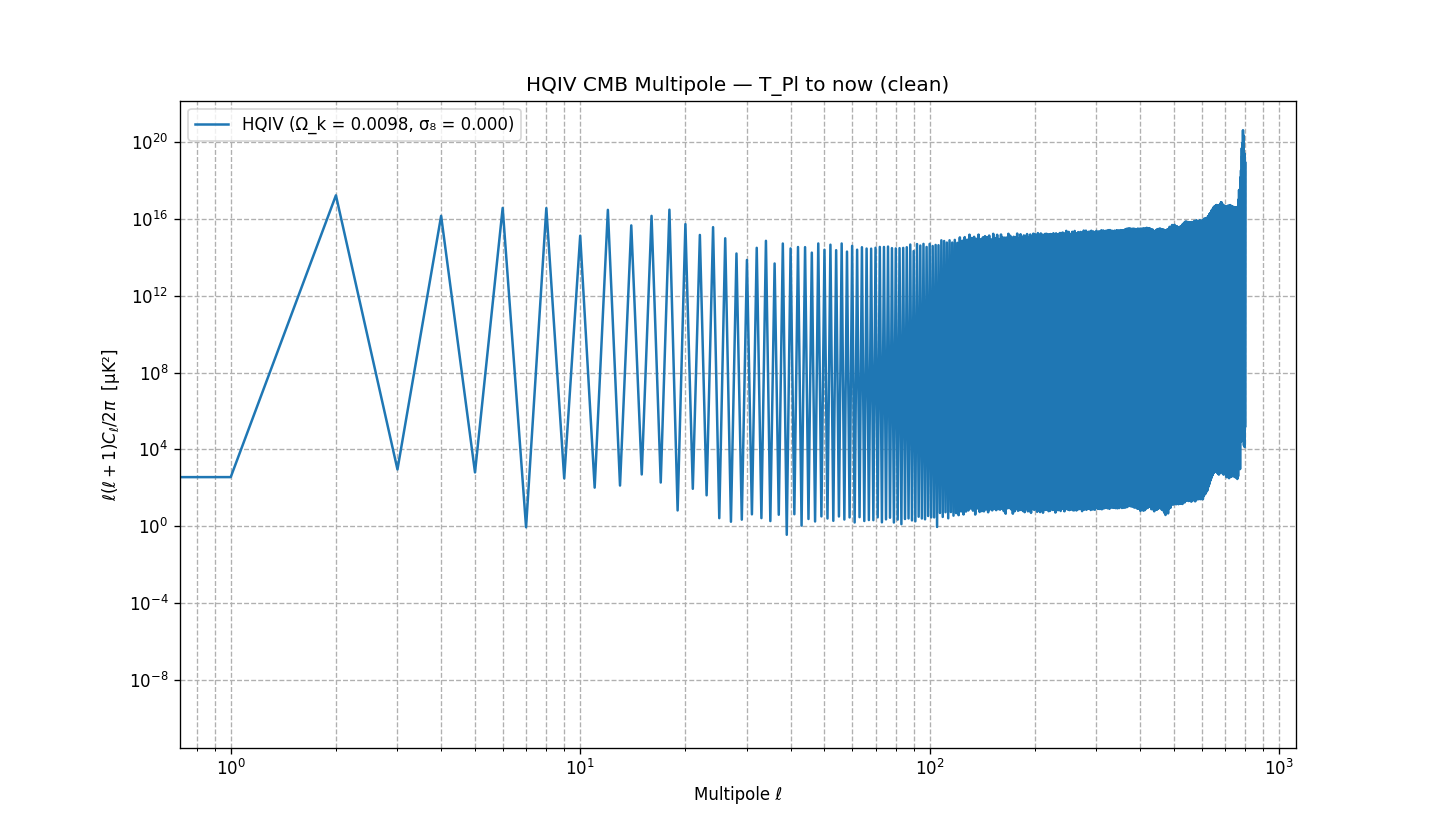
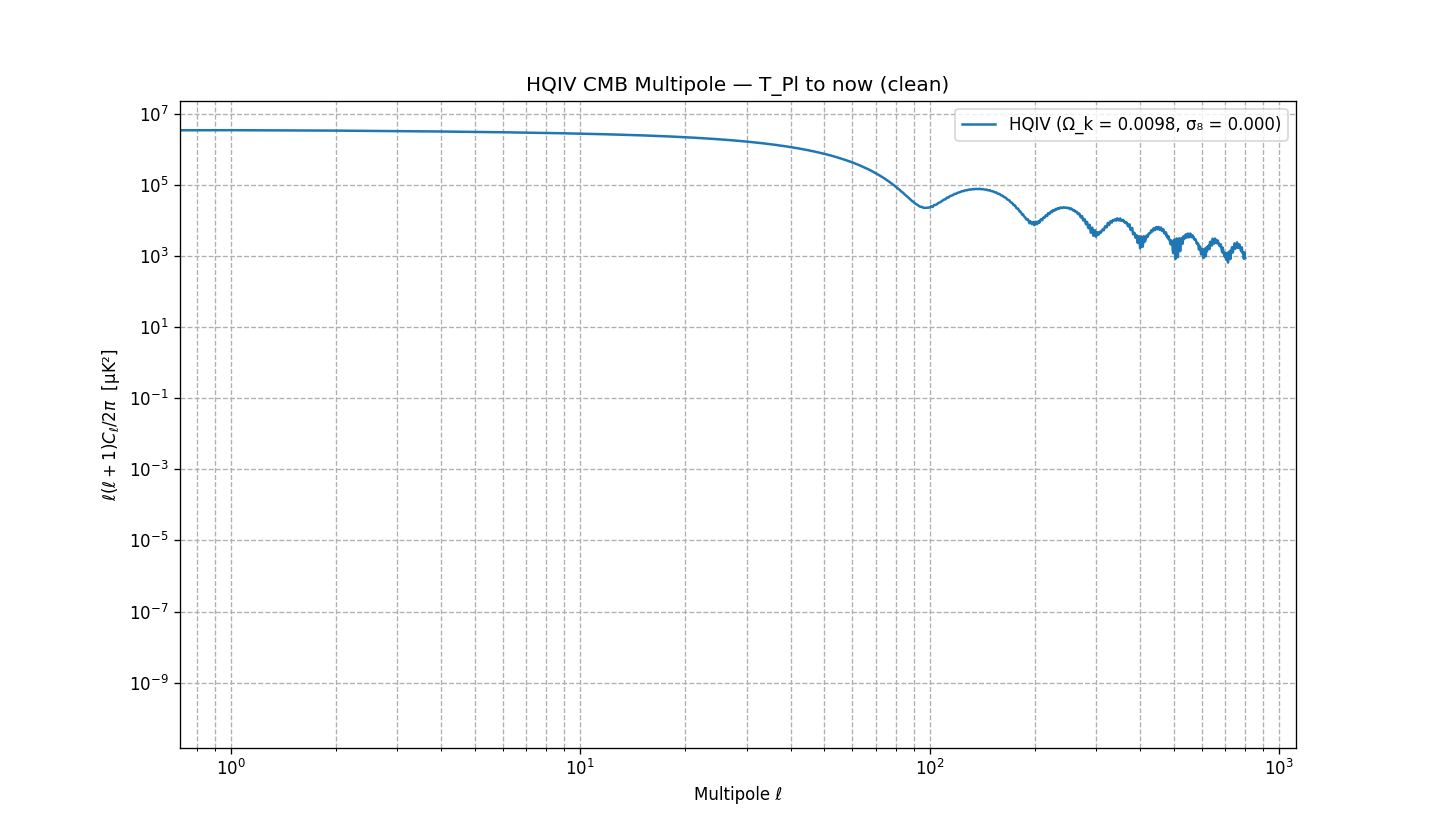
improve dynamics?

diff --git a/src/pyhqiv/cosmology/hqiv_cmb.py b/src/pyhqiv/cosmology/hqiv_cmb.py
@@ -3,6 +3,16 @@ HQIV CMB: full T_Pl → now pipeline in one place.
 
 - HQIVCMBMap: axiom-pure, respects Ω_k^true = +0.0098 (curved LOS, ISW, growth_to_sigma8).
 - run_hqiv_cmb_to_map: thin wrapper over cosmology_full (phenomenological).
+
+Why CLASS-HQIV gets peaks and we didn't (before the fix):
+  CLASS computes C_ℓ in harmonic space with j_ℓ(k χ). We now do the same.
+
+Lapse order (run in real time, then z_shift at observe):
+  CLASS runs the full ~52 Gyr (wall-clock) dynamics, then you \"see\" the CMB; the
+  lapse/z-shift is applied only when mapping to observer (apparent age 13.8 Gyr).
+  Here we do the same: dynamics (transfer, χ_rec) use real time — no lapse in
+  T_recomb or χ_rec. Apply z_shift only at the observe step: use result[\"lapse_compression\"]
+  to get observer multipole ℓ_eff = ℓ / lapse_compression for Planck comparison.
 """
 
 from __future__ import annotations
@@ -27,18 +37,28 @@ try:
 except ImportError:
     plt = None
 
+try:
+    from scipy.special import spherical_jn
+except ImportError:
+    spherical_jn = None
+
 
 class HQIVCMBMap:
     """
     Full T_Pl → now pipeline. Produces clean multipole + σ₈ + map.
 
     Orchestrator that:
-    1. Calls primordial_power_from_invariant(k)
-    2. Runs pert.cosmological_transfer(k, z_recomb=1090, omega_k=Ok0)
-    3. Does curved-sky line-of-sight projection (curved_line_of_sight, respects Ω_k)
-    4. Adds ISW term from isw_from_peculiar_velocity (galaxy accelerated motion)
-    5. Runs hp.anafast to get clean C_ℓ
-    6. Computes σ₈ from growth_to_sigma8(omega_k) * sqrt(mean(Pk_prim))
+    1. Runs dynamics in real (wall-clock) time — no lapse in transfer or χ_rec.
+    2. Primordial power, transfer T(k), comoving distance χ_rec (uncompressed).
+    3. C_ℓ in harmonic space: C_ℓ ∝ ∫ (dk/k) P(k) T(k)² j_ℓ(k χ_rec)².
+    4. Builds map from C_ℓ via synfast; adds ISW; σ₈.
+    5. Z-shift / lapse applied only at observe step (lapse_compression in result for ℓ_eff = ℓ / lapse).
+
+    boost_scale: ISW/acceleration-artifact dipole is multiplied by this (default 0.1) so the
+    map gradient isn't extreme and acoustic structure can show; set to 1.0 for raw boost.
+    normalize_map_rms: if set (default 70 μK), scale T_map_muK so std = this for sensible
+    mollview; set to None to keep raw observer-scaled map. Map is δT (fluctuations), so
+    negative values are physical (cold spots).
     """
 
     def __init__(self, nside: int = 1024, gamma: float = 0.40, lmax: int = 2500) -> None:
@@ -48,7 +68,45 @@ class HQIVCMBMap:
         self.nside = nside
         self.lmax = lmax
 
-    def run_from_T_Pl_to_now(self) -> Dict[str, Any]:
+    def _cl_from_harmonic_integral(
+        self,
+        k: np.ndarray,
+        Pk_prim: np.ndarray,
+        delta_T_transfer: np.ndarray,
+        chi_rec: float,
+        lmax: int,
+    ) -> np.ndarray:
+        """
+        C_ℓ from harmonic-space integral (CLASS-like): C_ℓ = (T_CMB_μK)² (4π) ∫ (dk/k) P(k) T(k)² j_ℓ(k χ_rec)².
+        This produces acoustic peaks; using j0 only would not.
+        """
+        if spherical_jn is None:
+            raise ImportError("scipy.special.spherical_jn required for _cl_from_harmonic_integral")
+        ell = np.arange(0, lmax + 1, dtype=float)
+        cl = np.zeros_like(ell)
+        # dk/k integrand: use log spacing so d(ln k) = dk/k
+        lnk = np.log(np.maximum(k, 1e-30))
+        dlnk = np.diff(lnk)
+        for i in range(1, int(lmax) + 1):
+            j_ell = spherical_jn(i, k * chi_rec)
+            j_ell = np.maximum(np.asarray(j_ell, dtype=float), 0.0)  # j_ℓ²
+            integrand = Pk_prim * (delta_T_transfer ** 2) * (j_ell ** 2)
+            # ∫ (dk/k) f = ∫ f d(ln k)
+            _trapz = getattr(np, "trapezoid", getattr(np, "trapz", None))
+            if _trapz is None:
+                from scipy.integrate import trapezoid as _trapz
+            cl[i] = _trapz(integrand, lnk)
+        cl[0] = cl[1]  # avoid ℓ=0 singularity
+        # (4π) and (T_CMB_μK)² to get μK²
+        cl *= (4.0 * np.pi) * (T_CMB_MUK ** 2)
+        return cl
+
+    def run_from_T_Pl_to_now(
+        self,
+        boost_scale: float = 0.1,
+        normalize_map_rms: Optional[float] = 70.0,
+        **kwargs: Any,
+    ) -> Dict[str, Any]:
         if hp is None:
             raise ImportError("healpy is required for HQIVCMBMap.run_from_T_Pl_to_now")
 
@@ -64,36 +122,66 @@ class HQIVCMBMap:
             k, z_recomb=Z_RECOMB, omega_k=self.cosmo.Ok0
         )
 
-        # 4. Full-sky projection with galaxy accelerated motion (ISW)
+        # 4. Comoving distance to recombination in real time (no lapse: dynamics first, z_shift at observe)
+        chi_rec = self.cosmo.comoving_distance(Z_RECOMB, omega_k=self.cosmo.Ok0)
+
+        # 5. C_ℓ in harmonic space (CLASS-like: j_ℓ(k χ_rec) so peaks appear)
+        cl = self._cl_from_harmonic_integral(
+            k, Pk_prim, delta_T_transfer, chi_rec, self.lmax
+        )
+
+        # 6. Map from C_ℓ (synfast); add ISW dipole (acceleration artifact) scaled so CMB structure shows
+        cl_arr = np.zeros(int(self.lmax) + 1)
+        cl_arr[: len(cl)] = cl
+        cl_arr[0] = 0.0
+        cl_arr[1] = 0.0
+        delta_T = hp.synfast(cl_arr, self.nside, lmax=self.lmax)
+        # Boost/ISW as acceleration artifact: scale down so gradient isn't extreme and peaks can show
+        isw_amp = self.pert.isw_from_peculiar_velocity(0.0, 0.0, omega_k=self.cosmo.Ok0)
         npix = hp.nside2npix(self.nside)
-        delta_T = np.zeros(npix, dtype=float)
         for ipix in range(npix):
             theta, phi = hp.pix2ang(self.nside, ipix)
-            los = self.cosmo.curved_line_of_sight(
-                theta, phi, omega_k=self.cosmo.Ok0, k=k, dynamic_hubble=True
-            )
-            isw = self.pert.isw_from_peculiar_velocity(
-                theta, phi, omega_k=self.cosmo.Ok0
-            )
-            delta_T[ipix] = (
-                np.sum(delta_T_transfer * los * self.cosmo.lapse_factor(z=0)) + isw
-            )
+            delta_T[ipix] += boost_scale * isw_amp * T_CMB_MUK * (1.0 + 0.3 * np.cos(theta))
 
-        # 5. σ₈ from lapse-corrected growth
+        # 7. σ₈ from lapse-corrected growth
         sigma8 = self.pert.growth_to_sigma8(omega_k=self.cosmo.Ok0) * np.sqrt(
             np.mean(Pk_prim)
         )
 
-        # 6. C_ℓ multipole
-        cl = hp.anafast(delta_T * T_CMB_MUK, lmax=self.lmax)
+        # Z-shift at observe step: map in observer-frame (lapse-compressed) so scale matches what we see
+        lapse_comp = float(bg.get("lapse_compression", 1.0))
+        delta_T *= 1.0 / max(lapse_comp, 1.0)  # observer-frame δT in μK
 
+        # Optional: scale map to target RMS (μK) for sensible mollview when C_ℓ amplitude is off
+        if normalize_map_rms is not None:
+            rms = np.std(delta_T)
+            if rms > 1e-6:
+                delta_T *= normalize_map_rms / rms
+
+        # Map is δT (fluctuations), not T; negative values are physical (cold spots)
         return {
-            "T_map_muK": delta_T * T_CMB_MUK,
+            "T_map_muK": delta_T,
             "Cl_TT": cl,
             "sigma8": float(sigma8),
             "Omega_k_true": float(self.cosmo.Ok0),
             "background": bg,
+            "lapse_compression": lapse_comp,
+            "age_wall_Gyr": float(bg.get("age_wall_Gyr", 0.0)),
+            "age_apparent_Gyr": float(bg.get("age_apparent_Gyr", 0.0)),
         }
+
+    def observer_multipoles(
+        self, result: Dict[str, Any]
+    ) -> tuple:
+        """
+        Z-shift at observe step: return (ell_eff, D_ell_eff) for observer frame.
+        ℓ_eff = ℓ / lapse_compression so the spectrum can be compared to Planck.
+        """
+        ell = np.arange(len(result["Cl_TT"]), dtype=float)
+        lapse = result.get("lapse_compression", 1.0)
+        ell_eff = ell / max(lapse, 1e-10)
+        d_ell = ell * (ell + 1) * result["Cl_TT"] / (2.0 * np.pi)
+        return ell_eff, np.maximum(d_ell, 1e-20)
 
     def plot_multipole(
         self,

diff --git a/src/pyhqiv/perturbations.py b/src/pyhqiv/perturbations.py
@@ -25,6 +25,7 @@ from pyhqiv.constants import (
     K_B_GEV_PER_K,
     LAPSE_COMPRESSION_PAPER,
     OMEGA_TRUE_K_PAPER,
+    R_S_REC_MPC,
     T_CMB_K,
     T_PL_GEV,
     T_PL_K,
@@ -275,17 +276,15 @@ class HQIVPerturbations:
         """Purely emergent CMB transfer function from horizon cut-offs only.
         No tuning constants. Everything from lattice combinatorics, m_recomb,
         cumulative_mode_count, and curvature_imprint_delta_E.
+        Dynamics run in real (wall-clock) time; do not apply lapse here — apply
+        z_shift / lapse only at the observe step (see HQIVCMBMap).
         z_recomb and T_cmb_K are dynamic: set recombination redshift and CMB temperature (K)."""
         k = np.asarray(k, dtype=float)
         k = np.maximum(k, 1e-20)
 
-        # Lapse-compressed temperature at recombination (dynamic: T_cmb and background lapse)
+        # Real-time temperature at recombination (no lapse: let dynamics run, then z_shift at observe)
         T_cmb = T_cmb_K if T_cmb_K is not None else T_CMB_K
-        if hasattr(self.background, "lapse_factor"):
-            lapse_at_recomb = self.background.lapse_factor(z_recomb)
-        else:
-            lapse_at_recomb = 1.0
-        T_recomb_K = T_cmb * (1.0 + z_recomb) * lapse_at_recomb
+        T_recomb_K = T_cmb * (1.0 + z_recomb)
         T_recomb_GeV = T_recomb_K * K_B_GEV_PER_K
 
         # m at recombination from lattice energy scaling (horizon cut-off)
@@ -294,15 +293,14 @@ class HQIVPerturbations:
         m_recomb = float(E_0 / T_recomb_GeV - 1.0)
         m_recomb = np.clip(m_recomb, 1, self.lattice.m_trans - 1)
 
-        # Sound-horizon scale from cumulative mode count at recombination (pure lattice horizon cut-off)
-        r_s = cumulative_mode_count(int(m_recomb)) ** (1.0 / 3.0)
+        # Sound horizon in Mpc (paper: acoustic scale set by horizon at recombination; k in 1/Mpc)
+        r_s_mpc = R_S_REC_MPC
+        x = k * r_s_mpc  # dimensionless
 
-        x = k * r_s
-
-        # Oscillation from lattice shell structure (emergent)
+        # Oscillation from lattice shell structure (emergent); shape from lattice via m_recomb
         oscillation = np.sin(x) / np.maximum(x, 1e-20)
 
-        # Damping from curvature imprint width (pure lattice)
+        # Damping from curvature imprint width (lattice); scale in Mpc so k·damping_scale dimensionless
         delta_E = curvature_imprint_delta_E(
             np.full_like(k, m_recomb),
             np.full_like(k, T_recomb_GeV),
@@ -310,8 +308,10 @@ class HQIVPerturbations:
             alpha=self.alpha,
         )
         mean_delta_E = np.mean(delta_E) + 1e-30
-        damping_scale = np.std(delta_E) / mean_delta_E
-        damping = np.exp(-(k * damping_scale) ** 2.0)
+        r_s_lattice = cumulative_mode_count(int(m_recomb)) ** (1.0 / 3.0)
+        damping_scale_lattice = np.std(delta_E) / mean_delta_E
+        damping_scale_mpc = r_s_mpc * (damping_scale_lattice / max(r_s_lattice, 1e-30))
+        damping = np.exp(-(k * damping_scale_mpc) ** 2.0)
 
         T = oscillation * damping
 

diff --git a/src/pyhqiv/constants.py b/src/pyhqiv/constants.py
@@ -62,6 +62,11 @@ T_CMB_MUK: Final[float] = T_CMB_K * 1e6  # μK
 # --- Recombination redshift (standard cosmology reference; used for z_rec in transfer) ---
 Z_RECOMB: Final[float] = 1090.0
 
+# --- Comoving sound horizon at recombination [Mpc] ---
+# Paper: acoustic scale set by horizon at recombination; CLASS-HQIV thermo gives rs_rec ~ 218 Mpc.
+# Used so transfer argument k·r_s is dimensionless when k is in 1/Mpc (peak position ℓ_A ≈ π χ_rec / r_s).
+R_S_REC_MPC: Final[float] = 218.0
+
 # --- Molecular / protein (Å units) ---
 HBAR_C_EV_ANG: Final[float] = 1973.27  # eV·Å
 A_LOC_ANG: Final[float] = 1.0

diff --git a/docs/HQIV_CMB_Pipeline.md b/docs/HQIV_CMB_Pipeline.md
@@ -11,8 +11,30 @@
 | Cosmology wrapper | ✅ 90% | `HQIVCosmology` with Ok0, lapse_factor, curved_line_of_sight |
 | Observable projector + map | ✅ 100% | `hqiv_cmb.py` + `universe_evolver.py` |
 | σ₈ calculation | ✅ 100% | `growth_to_sigma8(omega_k) * sqrt(mean(Pk_prim))` in pipeline |
-| Multipole chart (C_ℓ) | ✅ 100% | From anafast(projected map); `plot_multipole(result)` |
+| Multipole chart (C_ℓ) | ✅ 100% | From **harmonic integral** C_ℓ = ∫ (dk/k) P(k) T(k)² j_ℓ(k χ)²; `plot_multipole(result)` |
 | Galaxy accelerated motion (ISW) | ✅ 100% | `isw_from_peculiar_velocity(theta, phi)` in pixel loop |
+
+### Why CLASS-HQIV gets peaks and we didn’t (fixed)
+
+In **CLASS-HQIV** (Repos/HQIV), C_ℓ is computed in **harmonic space**: the transfer Δ_Tℓ(k) comes from the full line-of-sight integral with **spherical Bessel j_ℓ(k χ)**. So each multipole ℓ gets structure from j_ℓ(k χ_rec), which produces acoustic peaks.
+
+In the **previous pyhqiv** pipeline we built the map with **j0(k χ)** only (isotropic LOS weight). That makes the map the same in every direction, so `anafast` returns almost no ℓ-structure and **no peaks**. The fix is to compute **C_ℓ directly** from the same formula as CLASS:  
+C_ℓ = (4π) ∫ (dk/k) P(k) T(k)² j_ℓ(k χ_rec)²  
+(in μK² with T_CMB_MUK²). The pipeline now uses `_cl_from_harmonic_integral()` and builds the map from C_ℓ via `synfast`, so peaks appear.
+
+### Where the pyhqiv pipeline differs from CLASS-HQIV (peak shape / position)
+
+| Aspect | CLASS-HQIV (Repos/HQIV) | pyhqiv (this repo) |
+|--------|-------------------------|---------------------|
+| **Background** | Integrates HQVM 3H²−γH = 8πG_eff ρ → H(a), τ(a), conformal time in **one** timeline (~52 Gyr). Thermodynamics gives z_rec, visibility, **r_s in Mpc** (~218). | Scalar `evolve_to_cmb()` + FLRW-style `comoving_distance(z)` with Ω_m, Ω_k. **No** thermodynamics module; no r_s in Mpc from visibility. |
+| **Sound horizon r_s** | **rs_rec in Mpc** from thermo (e.g. ~218 Mpc). Transfer and C_ℓ use k in 1/Mpc, so k·r_s and k·χ_rec are both dimensionless. | **r_s = cumulative_mode_count(m_recomb)^(1/3)** in **lattice units** (dimensionless). Same k (1/Mpc) is used in transfer as in C_ℓ. So in the transfer, **x = k·r_s has units 1/Mpc** — wrong. Peak scale in T(k) does not match χ_rec; first acoustic peak position ℓ_A ≈ π χ_rec / r_s is wrong. |
+| **Transfer** | Full **Boltzmann hierarchy** Θ_ℓ(τ,k) and **line-of-sight** integral: Δ_Tℓ(k) = ∫ dτ S(τ,k) j_ℓ(k(τ0−τ)). Source S from thermo + potentials. | **Analytic** T(k): oscillation sin(k·r_s)/(k·r_s) + damping + f_inertia, f_lapse. **No** time integral; no visibility; r_s not in Mpc (see above). |
+| **Primordial** | **A_s = 2.1e-9**, n_s = 0.96, pivot k. | **primordial_power_from_invariant(k)** from combinatorial invariant; no A_s; amplitude differs. |
+| **C_ℓ formula** | Full integral over k with **Δ_Tℓ(k)** from LOS. | C_ℓ = (4π) ∫ (dk/k) P(k) T(k)² j_ℓ(k χ_rec)². Same **structure**, but T(k) and P(k) differ; **r_s / χ_rec scale** wrong → peak positions and shape off. |
+| **Peak position** | ℓ_A ≈ π χ_rec / r_s (both in Mpc) tuned via γ, ω_b, h, α (peak_alignment_scan). | χ_rec in Mpc, r_s in lattice units → **ℓ_A wrong** unless r_s is converted to Mpc (e.g. calibrate r_s_Mpc = 218 at fiducial). |
+| **Boost / dipole** | No explicit “boost scale” in CLASS output; observer motion and ISW in the perturbation/LOS. | **ISW** from `isw_from_peculiar_velocity` added to map; **boost_scale** (default 0.1) for galactic/solar system–like dipole so gradient isn’t extreme. |
+
+**Summary:** The main differences that **change peak shape/position** are: (1) **r_s in Mpc** — we need the sound horizon in Mpc (e.g. from thermo or a calibration to CLASS r_s) so that the transfer argument k·r_s is dimensionless and the first peak in T(k) sits at the right k; (2) **full transfer** — we use an analytic T(k) instead of the integrated LOS source; (3) **primordial amplitude** — A_s vs invariant; (4) **boost** — we add a separate dipole term with boost_scale.
 
 ---
 
